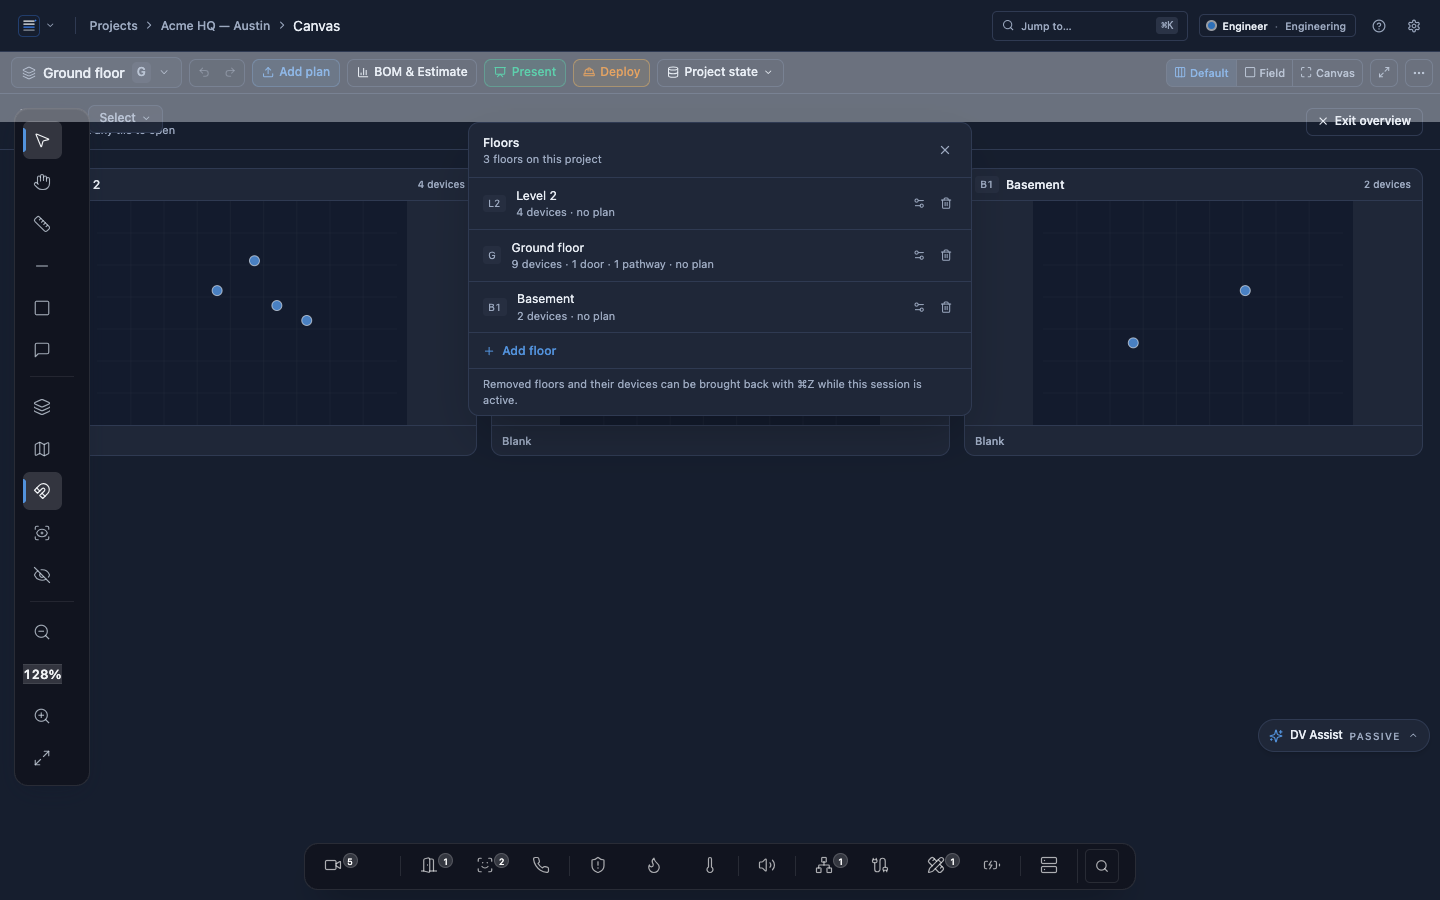
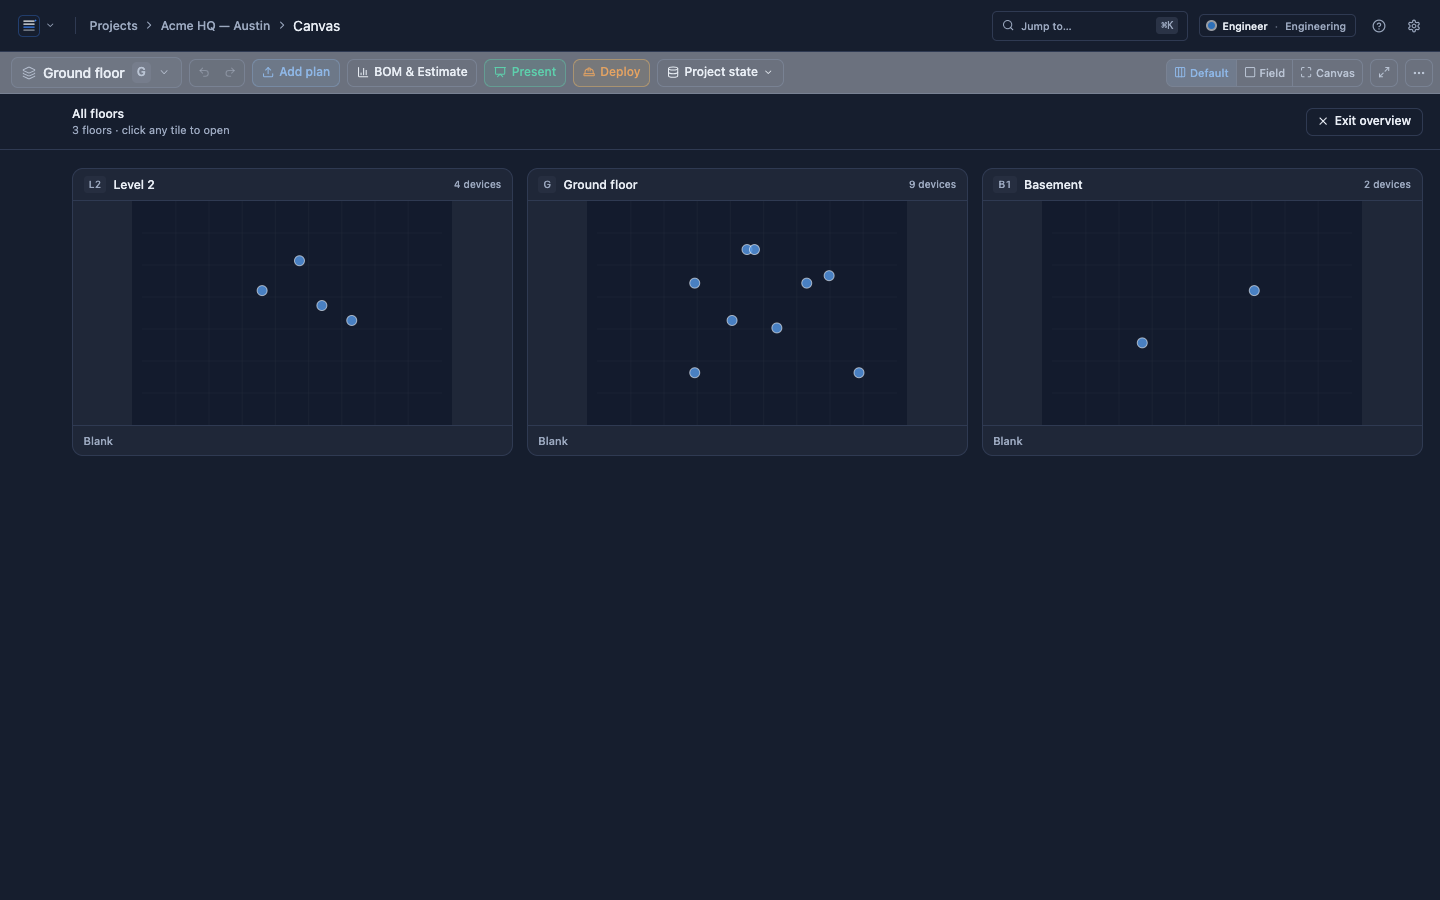
canvas: fix FL3/UI1 FloorOverview clipping + bleed-through (E62)
Floor overview was rendering the leftmost tile behind the floating
LeftRail (clipping the level badge to a single digit) and using a
raw z-30 that let the SelectByMenu and canvas-add-fab paint through.

- Sticky header + grid both clear the rail with pl-[72px] (12 inset
  + 44 rail + 8 padding + 8 safety), keep pr-5 breathing room
- Container z-30 → z-overlay token (var(--z-overlay) = 60), so the
  overview sits above the menu/fab layer cleanly
- Comment block documents the magic value so a future --rail-width
  CSS variable has a single landing point

Verified:
- npm run verify (typecheck/build, layout/z/state/tokens/reports/
  runtime audits all green; -1 raw z-index vs baseline)
- audit-exercise.mjs: Floor overview opens body3127->3267 with no
  console errors, screenshot recapture shows leftmost tile fully
  inside the safe area

diff --git a/src/app/canvas/chrome/FloorOverview.tsx b/src/app/canvas/chrome/FloorOverview.tsx
@@ -41,9 +41,23 @@ export function FloorOverview({ projectId, onPickFloor, onClose }: {
     return `L${level + 1}`;
   };
 
+  // M11 audit fix (FL3 / UI1): the overlay used to start at `left: 0`
+  // with `px-5` padding (20px), but the floating LeftRail occupies
+  // `left-3 md:left-4` (12-16px) + `w-11` (44px) + p-2 (8px) ≈ 64-72px
+  // of horizontal space. The leftmost tile rendered behind the rail
+  // with its label clipped to a single digit. Per-side padding now
+  // clears the rail (pl-[72px] = 12 inset + 44 rail + 8 padding + 8
+  // safety) and the right edge keeps the existing 20px breathing
+  // room. There is no existing --rail-width CSS variable today; the
+  // 72px is the only magic value, called out in this comment so a
+  // future variable can land in one place. The z-index also moved
+  // from the raw Tailwind class to the `z-overlay` token
+  // (var(--z-overlay) = 60) so the overview sits cleanly above the
+  // floating SelectByMenu and the canvas-add-fab; both used to bleed
+  // through at the old layer.
   return (
-    <div className="absolute inset-0 z-30 bg-background overflow-auto">
-      <div className="sticky top-0 z-10 border-b border-border bg-background/95 backdrop-blur-md px-5 py-3 flex items-center justify-between">
+    <div className="absolute inset-0 z-overlay bg-background overflow-auto">
+      <div className="sticky top-0 z-10 border-b border-border bg-background/95 backdrop-blur-md pl-[72px] pr-5 py-3 flex items-center justify-between">
         <div>
           <div className="text-sm font-medium">All floors</div>
           <div className="text-[11px] text-muted-foreground">{projectFloors.length} floors · click any tile to open</div>
@@ -57,7 +71,7 @@ export function FloorOverview({ projectId, onPickFloor, onClose }: {
           Exit overview
         </button>
       </div>
-      <div className="p-5 grid gap-4" style={{ gridTemplateColumns: 'repeat(auto-fit, minmax(320px, 1fr))' }}>
+      <div className="pl-[72px] pr-5 py-5 grid gap-4" style={{ gridTemplateColumns: 'repeat(auto-fit, minmax(320px, 1fr))' }}>
         {projectFloors.map((f) => {
           const devices = devicesByFloor[f.id] ?? [];
           const tileBg = f.background;
